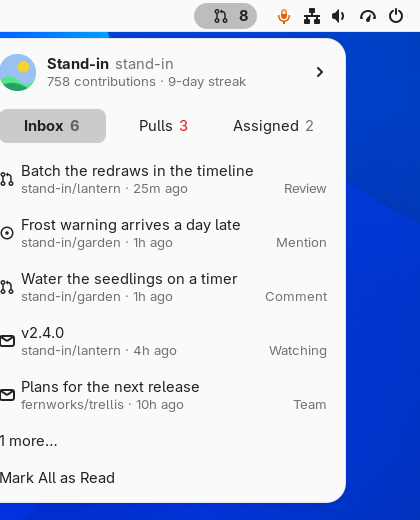
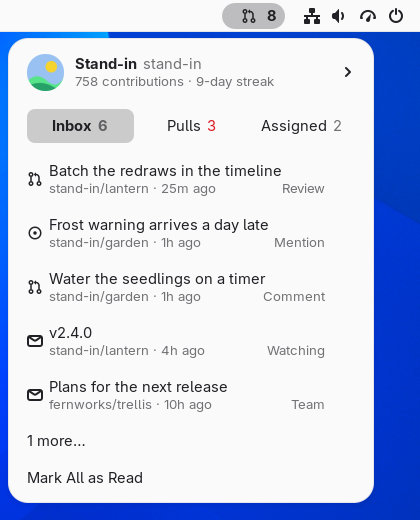
Mark one notification read without opening it (#21)
Fixes #16

diff --git a/src/lib/indicator.js b/src/lib/indicator.js
@@ -310,9 +310,14 @@ export const GitHubBarIndicator = GObject.registerClass({
             else
                 button.add_style_class_name('flat');
         });
+        // A rebuild under keyboard focus keeps it at the same place in the list.
+        const focused = this._list.box.get_children().findIndex(child => child.has_key_focus());
         this._list.removeAll();
         if (this._shown && this._tabsItem.visible)
             this._addList(TABS[index], this._shown, this._options);
+        const children = this._list.box.get_children();
+        if (focused >= 0 && children.length)
+            children[Math.min(focused, children.length - 1)].grab_key_focus();
     }
 
     _addList(tab, dashboard, options) {
@@ -389,6 +394,32 @@ export const GitHubBarIndicator = GObject.registerClass({
             this.emit('mark-read', notification.id);
             this.emit('open-url', notification.url);
         });
+
+        // Shown while the row is hovered or focused; Delete does the same from the keyboard.
+        const markRead = new St.Button({
+            style_class: 'icon-button flat github-bar-mark-read',
+            child: new St.Icon({icon_name: 'object-select-symbolic'}),
+            accessible_name: 'Mark as Read',
+            y_align: Clutter.ActorAlign.CENTER,
+            opacity: 0,
+        });
+        markRead.connect('clicked', () => this._markRead(item, notification));
+        item.add_child(markRead);
+        item.connect('notify::active', () => (markRead.opacity = item.active ? 255 : 0));
+        item.connect('key-press-event', (_item, event) => {
+            if (event.get_key_symbol() !== Clutter.KEY_Delete)
+                return Clutter.EVENT_PROPAGATE;
+            this._markRead(item, notification);
+            return Clutter.EVENT_STOP;
+        });
         return item;
+    }
+
+    // The row goes at once; the inbox and its counts follow with the refresh after the write.
+    _markRead(item, notification) {
+        if (item.has_key_focus())
+            this._list.box.navigate_focus(item, St.DirectionType.DOWN, false);
+        item.destroy();
+        this.emit('mark-read', notification.id);
     }
 });

diff --git a/src/stylesheet.css b/src/stylesheet.css
@@ -81,3 +81,7 @@
 .github-bar-tab-content {
     spacing: 0.4em;
 }
+
+.github-bar-mark-read {
+    padding: 0.3em;
+}

diff --git a/CLAUDE.md b/CLAUDE.md
@@ -69,9 +69,12 @@ docs/publishing.md      the zip, and how it meets the extensions.gnome.org revie
   selected tab's list is rebuilt, inside an `St.ScrollView` that replaces a
   `PopupMenuSection`'s actor, as the shell's `PopupSubMenu` does (with the `_delegate` set,
   or the menu never sees the section and leaks it on disable); keyboard focus scrolls itself
-  into view. Closing the menu folds the profile and selects the first tab. A failed fetch
-  keeps the last good data under its message; signed out hides it. There is no footer:
-  the preferences open from the Extensions app.
+  into view, and a rebuild under keyboard focus keeps it at the same index. An inbox row
+  carries a mark-read button, transparent until the row is active, and Delete does the
+  same: the row goes at once, the counts with the refresh after the write. Closing the
+  menu folds the profile and selects the first tab. A failed fetch keeps the last good
+  data under its message; signed out hides it. There is no footer: the preferences open
+  from the Extensions app.
 * **Item clicks open github.com in the browser**, a real launch from the nested shell too.
 * **The avatar** is fetched once per enable and cached as
   `~/.cache/github-bar@jackicus/avatar-<sha256 of the picture>`: GitHub keeps an avatar's

diff --git a/.claude/skills/drive-extension/SKILL.md b/.claude/skills/drive-extension/SKILL.md
@@ -23,7 +23,9 @@ steps and its settings are there. This is what is particular to GitHub Bar.
   the tabs Inbox, Pulls, Assigned sit at y 125 (folded), x about 1240, 1343, 1440. The
   list under them scrolls when it is long.
 - **Never click an item, "N more…" or Open Profile on GitHub**: each opens github.com in
-  the user's real browser. Mark All as Read, the tabs and the user row are safe.
+  the user's real browser. Mark All as Read, an inbox row's check button (at its right end, shown on hover), the tabs
+  and the user row are safe. The driver has no Delete key; BackSpace stands in only if the
+  code is changed for the test.
 - **States**: `./scripts/nested.sh state STATE` (`ok`, `empty`, `unauthorized`, `offline`,
   `error`, `signed-out`, `signed-in`, `checks-pending`, `checks-passed`, `checks-failed`);
   the app re-reads about 2 s later. `checks-pending` then `checks-passed` shows the "Checks

diff --git a/README.md b/README.md
@@ -13,7 +13,8 @@ GNOME Shell.
   Inbox and refreshes itself, on opening or switching tab, when its figures are over half
   a minute old; a small spinner beside your name says so, and the list stays put.
 - **Inbox**: your unread GitHub notifications, each tagged with why it is there (Review,
-  Mention, Comment, Watching, CI…); a click opens one and marks it read. It can leave out
+  Mention, Comment, Watching, CI…); a click opens one and marks it read, and the check
+  beside a row (or Delete) marks it read without opening it. It can leave out
   what you only watch.
 - **Pulls**: open pull requests that ask for your review, then your own, each with its
   checks (running, passed, failed) and review state. The tab counts what waits on you:
